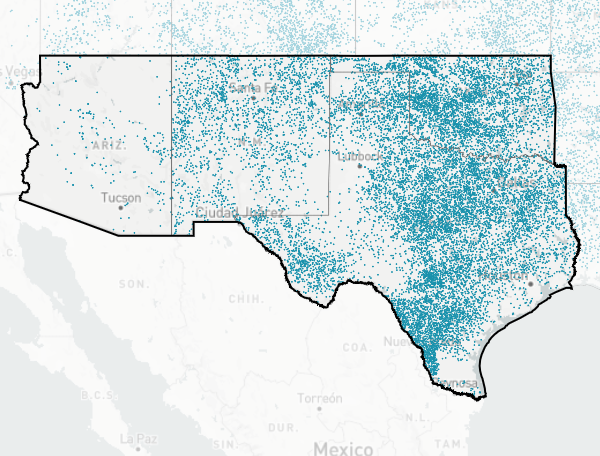
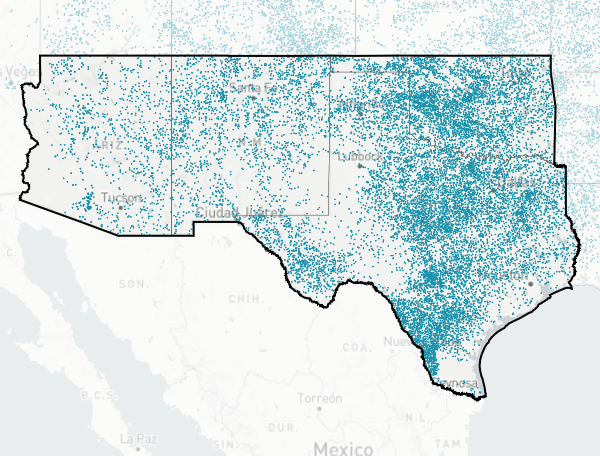
Update region maps, fix unranked map layer

diff --git a/ui/src/components/Priority/layers.js b/ui/src/components/Priority/layers.js
@@ -182,19 +182,16 @@ export const unrankedPoint = {
   // source: "", // provided by specific layer
   // 'source-layer': '', // provided by specific layer
   type: 'circle',
-  //FIXME:
-  minzoom: 8,
-  // minzoom: 10,
+  minzoom: 10,
   maxzoom: 24,
   paint: {
     'circle-color': '#999',
-    'circle-radius': 20,
-    // {
-    //   stops: [
-    //     [10, 0.5],
-    //     [14, 4],
-    //   ],
-    // },
+    'circle-radius': {
+      stops: [
+        [10, 0.5],
+        [14, 4],
+      ],
+    },
     'circle-opacity': {
       stops: [
         [10, 0.5],

diff --git a/api/constants.py b/api/constants.py
@@ -220,7 +220,7 @@ GENERAL_API_FIELDS2 = (
         "Subwatershed",
     ]
     + UNIT_FIELDS
-    + ["Excluded", "Invasive", "OnLoop", "Unranked"]
+    + ["Excluded", "Invasive", "OnLoop"]
     + METRIC_FIELDS
     + UPSTREAM_COUNT_FIELDS
     + DOWNSTREAM_LINEAR_NETWORK_FIELDS
@@ -269,7 +269,7 @@ DAM_API_FIELDS = unique(
     DAM_CORE_FIELDS
     + STATE_TIER_FIELDS
     + DAM_FILTER_FIELDS
-    + ["upNetID", "downNetID", "COUNTYFIPS"]
+    + ["upNetID", "downNetID", "COUNTYFIPS", "Unranked"]
 )
 
 # Public API does not include tier or filter fields
@@ -300,7 +300,6 @@ DAM_TILE_FIELDS = [
         # included in "packed": (note: some fields included above since used for processing tiles)
         "Excluded",
         "OnLoop",
-        "Unranked",
         "StreamOrder",
         "Estimated",
         "Invasive",
@@ -361,7 +360,9 @@ SB_CORE_FIELDS = unique(SB_CORE_FIELDS)
 # NOTE: state tiers are excluded based on SARP direction
 SB_EXPORT_FIELDS = unique(SB_CORE_FIELDS + CUSTOM_TIER_FIELDS)
 SB_API_FIELDS = unique(
-    SB_CORE_FIELDS + SB_FILTER_FIELDS + ["upNetID", "downNetID", "COUNTYFIPS"]
+    SB_CORE_FIELDS
+    + SB_FILTER_FIELDS
+    + ["upNetID", "downNetID", "COUNTYFIPS", "Unranked"]
 )
 
 # Public API does not include tier fields
@@ -389,7 +390,6 @@ SB_TILE_FIELDS = [
         # included in "packed": (note: some fields included above since used for processing tiles)
         "Excluded",
         "OnLoop",
-        "Unranked",
         "StreamOrder",
         "Invasive",
         "Recon",  # excluded from API_FIELDS (important!)
